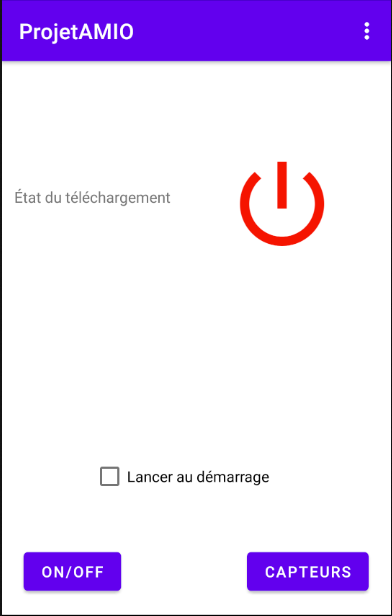
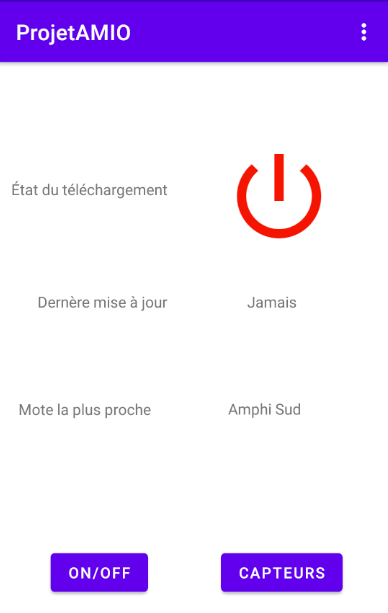
fix somes bugs

diff --git a/app/src/main/java/com/example/projetamio/activity/MainActivity.java b/app/src/main/java/com/example/projetamio/activity/MainActivity.java
@@ -149,25 +149,11 @@ public class MainActivity extends AppCompatActivity {
             MainActivity.this.startActivity(intentApp);
         });
 
-
-
-
         handler.post(run);
         handler.post(updateLocationMote);
 
-
-
-
-
         // Gestion de la case à cocher permettant le lancement de l'app au démarrage du téléphone
 
-        CheckBox startAtBoot = findViewById(R.id.startAtBoot);
-        startAtBoot.setOnCheckedChangeListener((buttonView, isChecked) -> {
-            SharedPreferences settings = getSharedPreferences(PREFS_NAME, 0);
-            SharedPreferences.Editor editor = settings.edit();
-            editor.putBoolean("start At Boot", isChecked);
-            editor.apply();
-        });
     }
 
     @Override
